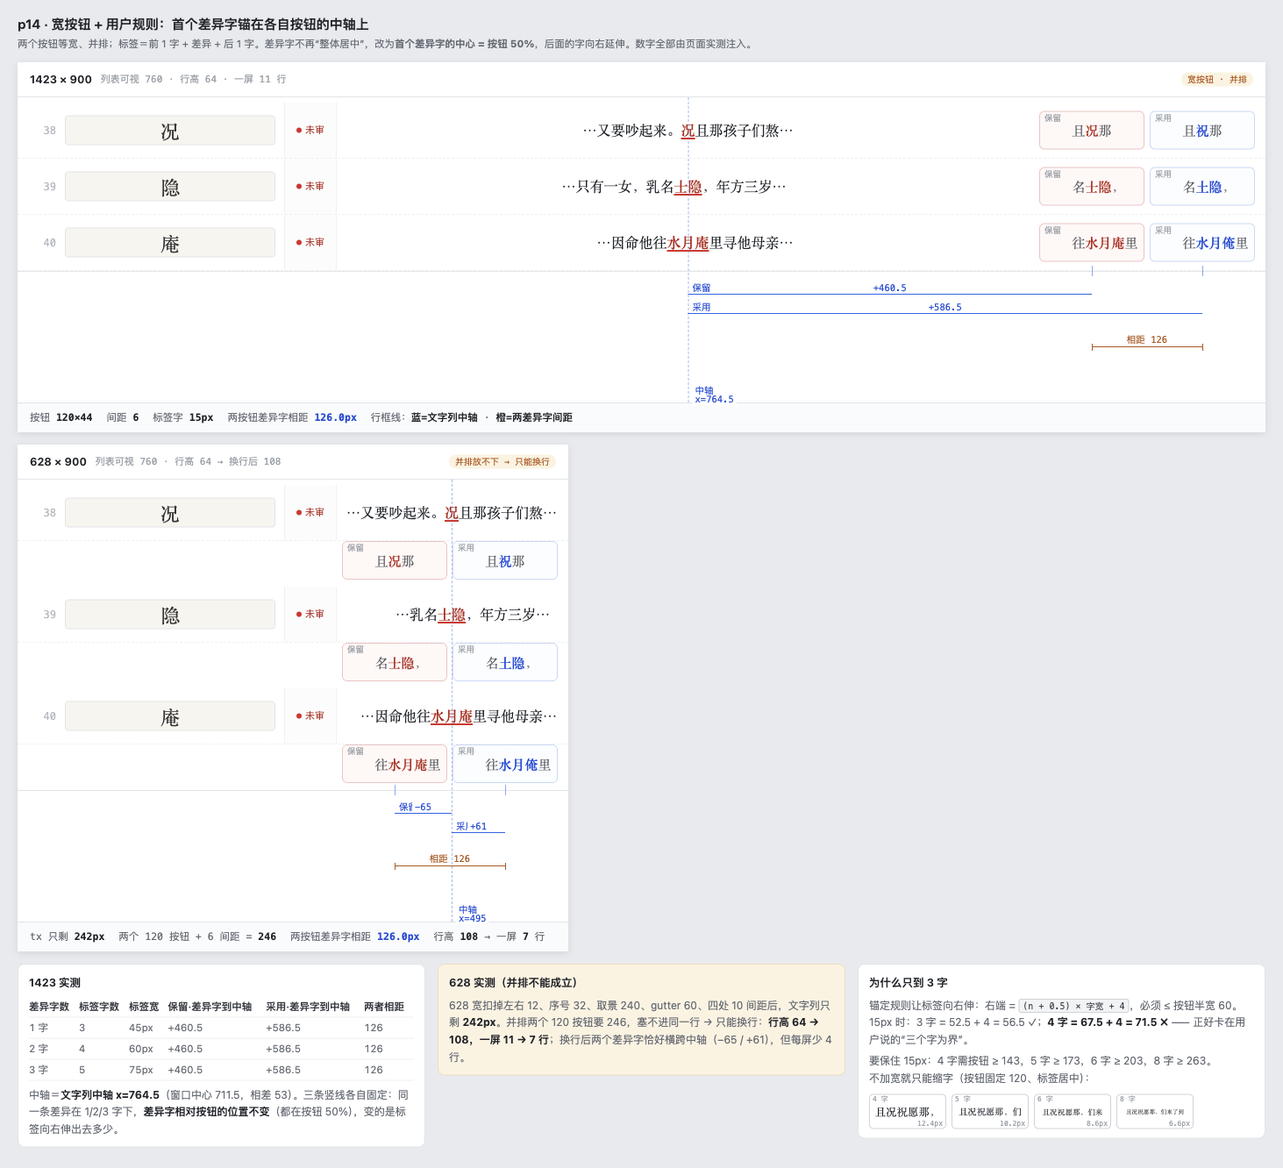
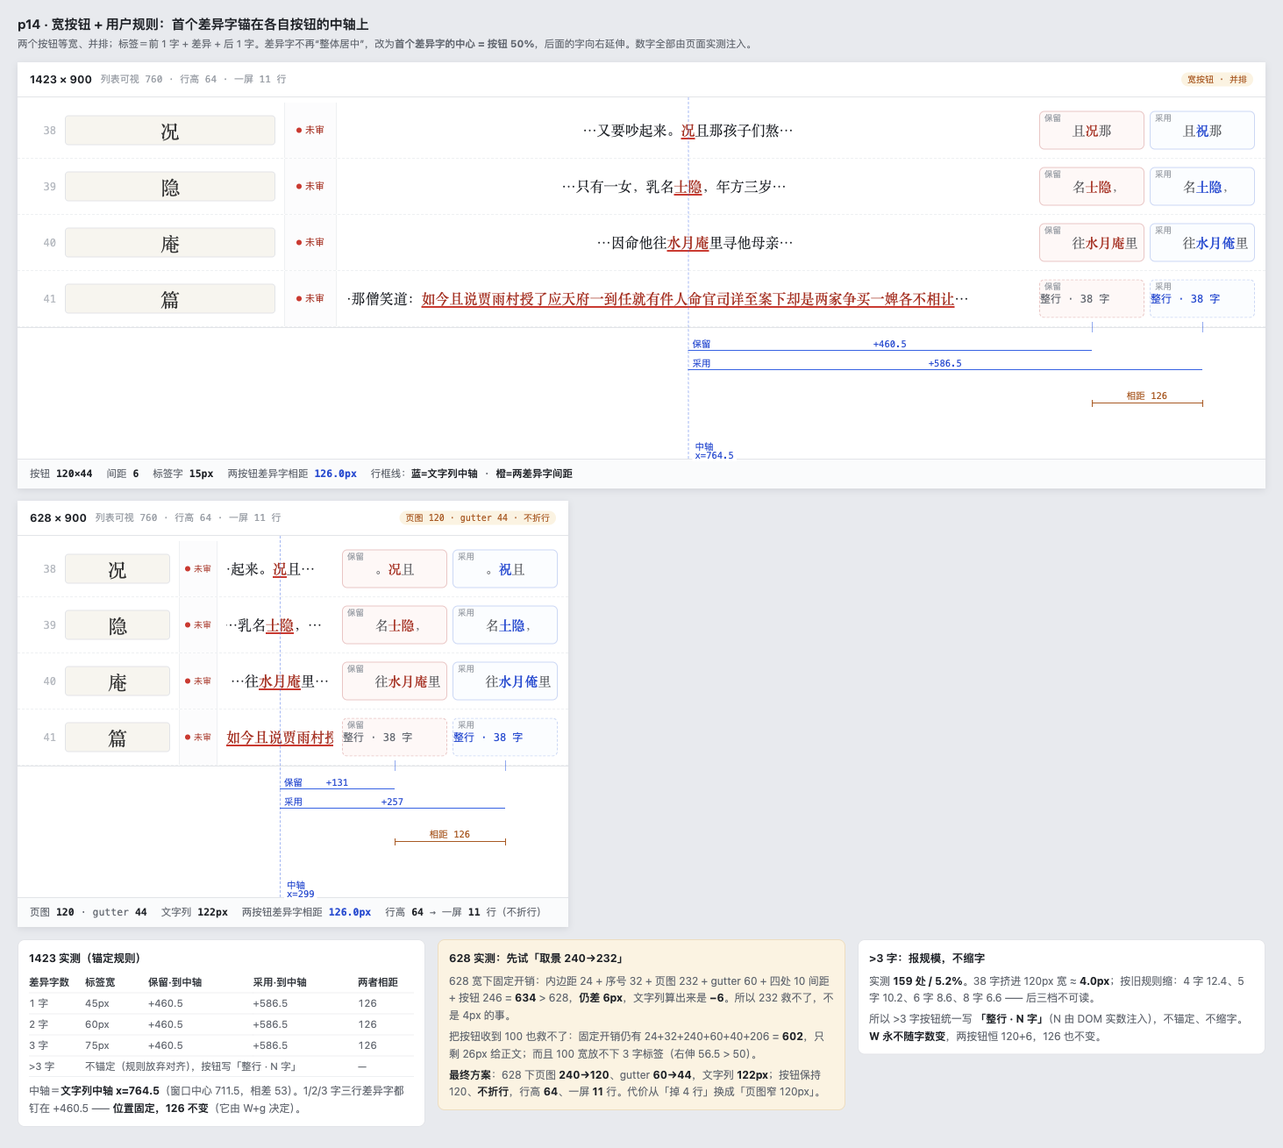
docs(ux): p14 定稿——W 固定 120、>3 字报「整行·N 字」、628 缩页图不折行
- p14 并排宽按钮定稿：1/2/3 字差异字钉在 +460.5 / +586.5，相距 126 不变
- >3 字（159 处 / 5.2%）按钮写「整行 · N 字」，不锚定不缩字；N 由 DOM 实数注入
- 628：取景 240→232 仍差 6px，按钮收 100 只剩 26px 正文且放不下 3 字标签
  → 最终页图 240→120、gutter 60→44，文字列 122、行高 64、一屏 11 行、不折行
- p15 芯片版标「未采用」，理由：会吃掉正文红字标记
- 数字全部由页面实测注入

diff --git a/docs/ux/review-cat-buttons-axis-p14.html b/docs/ux/review-cat-buttons-axis-p14.html
@@ -38,6 +38,11 @@ h1{font-size:15px;margin:0 0 3px;font-weight:650}
   transform:translateY(-50%)}
 .b .pre,.b .post{color:var(--text);opacity:.75}
 .b .dd{font-weight:700;color:var(--bad)}
+.b .bl{font:12px/1 var(--mono);color:var(--muted);white-space:nowrap}
+.b.adopt .bl{color:var(--blueText)}
+.b.big{border-style:dashed}
+.frame.n628 .shot{width:120px}
+.frame.n628 .gut{width:44px;font-size:10px}
 .b.adopt .dd{color:var(--blueText)}
 .b .lab{position:absolute;top:2px;left:5px;font:9.5px/1 var(--mono);color:var(--faint)}
 /* 标尺 */
@@ -107,71 +112,72 @@ h1{font-size:15px;margin:0 0 3px;font-weight:650}
           </div>
         </div>
       </div>
+        <div class="row">
+          <span class="no">41</span><div class="shot">篇</div><div class="gut"><i class="dot"></i>未审</div>
+          <div class="tx"><span class="padL"><span class="c">…那僧笑道：</span></span><b class="d">如今且说贾雨村授了应天府一到任就有件人命官司详至案下却是两家争买一婢各不相让</b><span class="padR"><span class="c">…</span></span></div>
+          <div class="btns">
+            <button class="b keep big" data-n="38"><span class="lab">保留</span><span class="in"><b class="bl">整行 · 38 字</b></span></button>
+            <button class="b adopt big" data-n="38"><span class="lab">采用</span><span class="in"><b class="bl">整行 · 38 字</b></span></button>
+          </div>
+        </div>
       <div class="ruler"></div>
     </div>
     <div class="ft"><span>按钮 <b>120×44</b></span><span>间距 <b>6</b></span><span>标签字 <b>15px</b></span><span>两按钮差异字相距 <b class="k" id="fa-dist">—</b></span><span>行框线：<b>蓝=文字列中轴</b> · <b>橙=两差异字间距</b></span></div>
   </div>
 
   <!-- ============ 628 ============ -->
-  <div class="frame" id="FB" style="width:628px">
-    <div class="hd">628 × 900<span class="dim">列表可视 760 · 行高 64 → 换行后 108</span><span class="spacer"></span><span class="tagp">并排放不下 → 只能换行</span></div>
+  <div class="frame n628" id="FB" style="width:628px">
+    <div class="hd">628 × 900<span class="dim">列表可视 760 · 行高 64 · 一屏 11 行</span><span class="spacer"></span><span class="tagp">页图 120 · gutter 44 · 不折行</span></div>
     <div class="bd">
       <div class="rows">
-        <div class="row wrap">
+        <div class="row">
           <span class="no">38</span><div class="shot">况</div><div class="gut"><i class="dot"></i>未审</div>
-          <div class="tx"><span class="padL"><span class="c">…又要吵起来。</span></span><b class="d">况</b><span class="padR"><span class="c">且那孩子们熬…</span></span></div>
+          <div class="tx"><span class="padL"><span class="c">…起来。</span></span><b class="d">况</b><span class="padR"><span class="c">且…</span></span></div>
+          <div class="btns"><button class="b keep" data-n="1"><span class="lab">保留</span><span class="in"><span class="pre">。</span><b class="dd" data-slot="keep">况</b><span class="post">且</span></span></button><button class="b adopt" data-n="1"><span class="lab">采用</span><span class="in"><span class="pre">。</span><b class="dd" data-slot="adopt">祝</b><span class="post">且</span></span></button></div>
         </div>
-        <div class="btnsline">
-          <button class="b keep" data-n="1"><span class="lab">保留</span><span class="in"><span class="pre">且</span><b class="dd" data-slot="keep">况</b><span class="post">那</span></span></button>
-          <button class="b adopt" data-n="1"><span class="lab">采用</span><span class="in"><span class="pre">且</span><b class="dd" data-slot="adopt">祝</b><span class="post">那</span></span></button>
-        </div>
-        <div class="row wrap">
+        <div class="row">
           <span class="no">39</span><div class="shot">隐</div><div class="gut"><i class="dot"></i>未审</div>
-          <div class="tx"><span class="padL"><span class="c">…乳名</span></span><b class="d">士隐</b><span class="padR"><span class="c">，年方三岁…</span></span></div>
+          <div class="tx"><span class="padL"><span class="c">…乳名</span></span><b class="d">士隐</b><span class="padR"><span class="c">，…</span></span></div>
+          <div class="btns"><button class="b keep" data-n="2"><span class="lab">保留</span><span class="in"><span class="pre">名</span><b class="dd" data-slot="keep">士</b><b class="dd">隐</b><span class="post">，</span></span></button><button class="b adopt" data-n="2"><span class="lab">采用</span><span class="in"><span class="pre">名</span><b class="dd" data-slot="adopt">土</b><b class="dd">隐</b><span class="post">，</span></span></button></div>
         </div>
-        <div class="btnsline">
-          <button class="b keep" data-n="2"><span class="lab">保留</span><span class="in"><span class="pre">名</span><b class="dd" data-slot="keep">士</b><b class="dd">隐</b><span class="post">，</span></span></button>
-          <button class="b adopt" data-n="2"><span class="lab">采用</span><span class="in"><span class="pre">名</span><b class="dd" data-slot="adopt">土</b><b class="dd">隐</b><span class="post">，</span></span></button>
-        </div>
-        <div class="row wrap">
+        <div class="row">
           <span class="no">40</span><div class="shot">庵</div><div class="gut"><i class="dot"></i>未审</div>
-          <div class="tx"><span class="padL"><span class="c">…因命他往</span></span><b class="d">水月庵</b><span class="padR"><span class="c">里寻他母亲…</span></span></div>
+          <div class="tx"><span class="padL"><span class="c">…往</span></span><b class="d">水月庵</b><span class="padR"><span class="c">里…</span></span></div>
+          <div class="btns"><button class="b keep" data-n="3"><span class="lab">保留</span><span class="in"><span class="pre">往</span><b class="dd" data-slot="keep">水</b><b class="dd">月</b><b class="dd">庵</b><span class="post">里</span></span></button><button class="b adopt" data-n="3"><span class="lab">采用</span><span class="in"><span class="pre">往</span><b class="dd" data-slot="adopt">水</b><b class="dd">月</b><b class="dd">俺</b><span class="post">里</span></span></button></div>
         </div>
-        <div class="btnsline">
-          <button class="b keep" data-n="3"><span class="lab">保留</span><span class="in"><span class="pre">往</span><b class="dd" data-slot="keep">水</b><b class="dd">月</b><b class="dd">庵</b><span class="post">里</span></span></button>
-          <button class="b adopt" data-n="3"><span class="lab">采用</span><span class="in"><span class="pre">往</span><b class="dd" data-slot="adopt">水</b><b class="dd">月</b><b class="dd">俺</b><span class="post">里</span></span></button>
+        <div class="row">
+          <span class="no">41</span><div class="shot">篇</div><div class="gut"><i class="dot"></i>未审</div>
+          <div class="tx"><span class="padL"><span class="c">…笑道：</span></span><b class="d">如今且说贾雨村授了应天府一到任就有件人命官司详至案下却是两家争买一婢各不相让</b><span class="padR"><span class="c">…</span></span></div>
+          <div class="btns"><button class="b keep big" data-n="38"><span class="lab">保留</span><span class="in"><b class="bl">整行 · 38 字</b></span></button><button class="b adopt big" data-n="38"><span class="lab">采用</span><span class="in"><b class="bl">整行 · 38 字</b></span></button></div>
         </div>
       </div>
       <div class="ruler"></div>
     </div>
-    <div class="ft"><span>tx 只剩 <b id="fb-txw">—</b></span><span>两个 120 按钮 + 6 间距 = <b>246</b></span><span>两按钮差异字相距 <b class="k" id="fb-dist">—</b></span><span>行高 <b>108</b> → 一屏 <b>7</b> 行</span></div>
+    <div class="ft"><span>页图 <b>120</b> · gutter <b>44</b></span><span>文字列 <b id="fb-txw">—</b></span><span>两按钮差异字相距 <b class="k" id="fb-dist">—</b></span><span>行高 <b>64</b> → 一屏 <b>11</b> 行（不折行）</span></div>
   </div>
 
   <div class="notes">
     <div class="card">
-      <h3>1423 实测</h3>
+      <h3>1423 实测（锚定规则）</h3>
       <table>
-        <tr><th>差异字数</th><th>标签字数</th><th>标签宽</th><th>保留·差异字到中轴</th><th>采用·差异字到中轴</th><th>两者相距</th></tr>
-        <tr><td>1 字</td><td>3</td><td id="t-1-lw">—</td><td id="t-1-k">—</td><td id="t-1-a">—</td><td id="t-1-d">—</td></tr>
-        <tr><td>2 字</td><td>4</td><td id="t-2-lw">—</td><td id="t-2-k">—</td><td id="t-2-a">—</td><td id="t-2-d">—</td></tr>
-        <tr><td>3 字</td><td>5</td><td id="t-3-lw">—</td><td id="t-3-k">—</td><td id="t-3-a">—</td><td id="t-3-d">—</td></tr>
+        <tr><th>差异字数</th><th>标签宽</th><th>保留·到中轴</th><th>采用·到中轴</th><th>两者相距</th></tr>
+        <tr><td>1 字</td><td id="t-1-lw">—</td><td id="t-1-k">—</td><td id="t-1-a">—</td><td id="t-1-d">—</td></tr>
+        <tr><td>2 字</td><td id="t-2-lw">—</td><td id="t-2-k">—</td><td id="t-2-a">—</td><td id="t-2-d">—</td></tr>
+        <tr><td>3 字</td><td id="t-3-lw">—</td><td id="t-3-k">—</td><td id="t-3-a">—</td><td id="t-3-d">—</td></tr>
+        <tr><td>&gt;3 字</td><td colspan="3">不锚定（规则放弃对齐），按钮写「整行 · N 字」</td><td>—</td></tr>
       </table>
-      <p style="margin:6px 0 0">中轴＝<b>文字列中轴 x=764.5</b>（窗口中心 711.5，相差 53）。三条竖线各自固定：同一条差异在 1/2/3 字下，<b>差异字相对按钮的位置不变</b>（都在按钮 50%），变的是标签向右伸出去多少。</p>
+      <p style="margin:6px 0 0">中轴＝<b>文字列中轴 x=764.5</b>（窗口中心 711.5，相差 53）。1/2/3 字三行差异字都钉在 +460.5 —— <b>位置固定，126 不变</b>（它由 W+g 决定）。</p>
     </div>
     <div class="card warnbox">
-      <h3>628 实测（并排不能成立）</h3>
-      <p style="margin:0">628 宽扣掉左右 12、序号 32、取景 240、gutter 60、四处 10 间距后，文字列只剩 <b id="t-fb-tx">—</b>。并排两个 120 按钮要 246，塞不进同一行 → 只能换行：<b>行高 64 → 108，一屏 11 → 7 行</b>；换行后两个差异字恰好横跨中轴（−65 / +61），但每屏少 4 行。</p>
+      <h3>628 实测：先试「取景 240→232」</h3>
+      <p style="margin:0 0 4px">628 宽下固定开销：内边距 24 + 序号 32 + 页图 232 + gutter 60 + 四处 10 间距 + 按钮 246 = <b>634</b> &gt; 628，<b>仍差 6px</b>，文字列算出来是 <b>−6</b>。所以 232 救不了，不是 4px 的事。</p>
+      <p style="margin:0 0 4px">把按钮收到 100 也救不了：固定开销仍有 24+32+240+60+40+206 = <b>602</b>，只剩 26px 给正文；而且 100 宽放不下 3 字标签（右伸 56.5 &gt; 50）。</p>
+      <p style="margin:0"><b>最终方案</b>：628 下页图 <b>240→120</b>、gutter <b>60→44</b>，文字列 <b id="t-fb-tx2">—</b>；按钮保持 120、<b>不折行</b>，行高 <b>64</b>、一屏 <b>11</b> 行。代价从「掉 4 行」换成「页图窄 120px」。</p>
     </div>
     <div class="card">
-      <h3>为什么只到 3 字</h3>
-      <p style="margin:0 0 4px">锚定规则让标签向右伸：右端 = <span class="k2">(n + 0.5) × 字宽 + 4</span>，必须 ≤ 按钮半宽 60。<br>15px 时：3 字 = 52.5 + 4 = 56.5 ✓；<b>4 字 = 67.5 + 4 = 71.5 ✗</b> —— 正好卡在用户说的“三个字为界”。</p>
-      <p style="margin:0">要保住 15px：4 字需按钮 ≥ 143，5 字 ≥ 173，6 字 ≥ 203，8 字 ≥ 263。<br>不加宽就只能缩字（按钮固定 120、标签居中）：</p>
-      <div class="mini">
-        <div class="mb"><b>4 字</b><span style="font-size:12.4px">且况祝愿那，</span><i>12.4px</i></div>
-        <div class="mb"><b>5 字</b><span style="font-size:10.2px">且况祝愿那，们</span><i>10.2px</i></div>
-        <div class="mb"><b>6 字</b><span style="font-size:8.6px">且况祝愿那，们来</span><i>8.6px</i></div>
-        <div class="mb"><b>8 字</b><span style="font-size:6.6px">且况祝愿那，们来了到</span><i>6.6px</i></div>
-      </div>
+      <h3>&gt;3 字：报规模，不缩字</h3>
+      <p style="margin:0 0 4px">实测 <b>159 处 / 5.2%</b>。38 字挤进 120px 宽 ≈ <b>4.0px</b>；按旧规则缩：4 字 12.4、5 字 10.2、6 字 8.6、8 字 6.6 —— 后三档不可读。</p>
+      <p style="margin:0">所以 &gt;3 字按钮统一写 <b>「整行 · N 字」</b>（N 由 DOM 实数注入），不锚定、不缩字。<b>W 永不随字数变</b>，两按钮恒 120+6，126 也不变。</p>
     </div>
   </div>
 </div>
@@ -188,6 +194,7 @@ function measure(f){
   // 先给每个按钮定位：首个差异字中心 = 按钮中心
   f.querySelectorAll('.b').forEach(b=>{
     const dd=b.querySelector('.dd'), inner=b.querySelector('.in');
+    if(!dd) return;
     const br=b.getBoundingClientRect(), dr=dd.getBoundingClientRect();
     inner.style.transform='translate('+((br.left+br.width/2)-(dr.left+dr.width/2))+'px,-50%)';
   });
@@ -229,12 +236,14 @@ function measure(f){
   return {axisX,kx,ax,dist:x1-x0,txw:tr.width};
 }
 
+const bigLen=(document.querySelector('#FA .row .d.big')||document.querySelectorAll('#FA .row .d')[3]||{textContent:''}).textContent.length;
+document.querySelectorAll('.b .bl').forEach(el=>{el.textContent='整行 · '+bigLen+' 字';});
 const A=document.getElementById('FA'),B=document.getElementById('FB');
 const mA=measure(A),mB=measure(B);
 document.getElementById('fa-dist').textContent=mA.dist.toFixed(1)+'px';
 document.getElementById('fb-dist').textContent=mB.dist.toFixed(1)+'px';
 document.getElementById('fb-txw').textContent=PX(mB.txw)+'px';
-document.getElementById('t-fb-tx').textContent=PX(mB.txw)+'px';
+document.getElementById('t-fb-tx2').textContent=PX(mB.txw)+'px';
 
 // 表格：逐行按钮（第一帧）
 [1,2,3].forEach(n=>{

diff --git a/docs/ux/review-cat-buttons-axis-p15.html b/docs/ux/review-cat-buttons-axis-p15.html
@@ -8,6 +8,7 @@
 body{font:13px/1.5 -apple-system,BlinkMacSystemFont,"PingFang SC","Microsoft YaHei",sans-serif;color:var(--text);background:#e8eaee}
 .page{width:1463px;padding:16px 20px 24px}
 h1{font-size:15px;margin:0 0 3px;font-weight:650}
+.dead{border:1px solid #f0c4c4;background:#fdf2f1;color:#b42318;border-radius:6px;padding:7px 11px;font-size:12.5px;font-weight:600;margin-bottom:10px}
 .sub{font-size:11.5px;color:var(--muted);margin-bottom:12px}
 .frame{position:relative;background:#fff;box-shadow:0 2px 8px rgba(16,24,40,.10);margin-bottom:14px}
 .hd{height:40px;display:flex;align-items:center;gap:10px;padding:0 14px;border-bottom:1px solid var(--line);font-size:12.5px;font-weight:650}
@@ -58,6 +59,7 @@ h1{font-size:15px;margin:0 0 3px;font-weight:650}
 .k2{font:10px/1 var(--mono);background:#f2f3f5;border:1px solid var(--line3);border-radius:3px;padding:1px 4px;color:#33383f}
 </style></head><body>
 <div class="page">
+  <div class="dead">未采用 · 用户选 p14（并排宽按钮）——芯片会吃掉正文里的红字标记</div>
   <h1>p15 · 窄芯片：只装差异字，两个芯片夹住文字列中轴</h1>
   <div class="sub">去掉「保留 / 采用」长文案，芯片＝<b>动作符号 + 差异字</b>；两个芯片的内侧边贴住 2px 中缝，缝正落在文字列中轴上。差异字距从 p14 的 126px 压到 33px。数字由页面实测注入。</div>
 

diff --git a/docs/ux/review-cat-list-v3.md b/docs/ux/review-cat-list-v3.md
@@ -159,60 +159,48 @@
 
 **验收口径（帧 1）**：文字列差异字各自居中、缺字补 `……`；占位点不可选中、不可编辑、不进导出；按钮差异字相对各自按钮居中且两按钮同宽。**不按「按钮与文字列同一条竖线」验**——那是另一件事，并排做不到（差 126px / 483px）。
 
-## 10. 按钮标签「首个差异字锚中轴」（2026-11-06，用户新规则）
+## 10. 按钮标签「首个差异字锚中轴」— p14 定稿（2026-11-06）
 
-图：`review-cat-buttons-axis-p14.png` / `review-cat-buttons-axis-p15.png`，源 `review-cat-buttons-axis-p14.html` / `-p15.html`。两图数字都由页面实测注入（`getBoundingClientRect`），不是手写。
+图：`review-cat-buttons-axis-p14.png`（定稿）、`review-cat-buttons-axis-p15.png`（**未采用**，图上有横幅）。源：同名 `.html`。数字由页面实测注入（`getBoundingClientRect`），不手写。
 
-### 用户规则原文
+**决策**：用户选 **p14 并排宽按钮**。**p15 窄芯片未采用**，一行理由：**芯片插在差异字原位，会吃掉正文里的红字标记**（用户要保留“正文哪儿不一样”的红字+下划线），而且 628 下芯片要占文字列 40–68%。
 
-> 差异内容是两个字（XY），按钮上显示时让差异内容从第二个字开始，保持差异内容的第一个字在按钮的中轴上；三个字（XYZ）就三个字全显示；超过三个字就缩小字体，这时候就不关中轴对齐了。
+### 10.1 规则
 
-落法：标签＝前 1 字 + 差异 + 后 1 字；**首个差异字的中心 = 按钮 50%**，标签向右延伸。1 字时前后各一字刚好对称（与原“整体居中”同解），2/3 字时向右长。
+| 项 | 值 |
+|---|---|
+| 两个按钮 | 并排、等宽 **W=120**、间距 **g=6**、高 44；角标写 `保留` / `采用` |
+| 标签 | 前 1 字 + 差异 + 后 1 字；**首个差异字的中心 = 按钮 50%**，后面的字向右延伸 |
+| 1 / 2 / 3 字 | 差异字分别钉在 **+460.5 / +586.5**，相距 **126px** —— 三个位置不随字数变 |
+| W | **固定 120，永不随字数变**（这条让“按钮越长越宽”的问题消失） |
+| >3 字 | 按钮写 **「整行 · N 字」**（N 由 DOM 实数注入），**不锚定、不缩字号**；实测 **159 处 / 5.2%** |
+| 126px | 不改。它由 `W+g` 决定；用户接受“两条线”，换来“位置固定” |
 
-### p14 宽按钮（W 120、g 6、字 15px）
+为什么 >3 字不缩：38 字挤进 120 宽 ≈ **4.0px**；按旧规则缩，4/5/6/8 字分别是 12.4 / 10.2 / 8.6 / 6.6px，后三档不可读。所以宁可只报规模。
 
-W 固定 120（不是 p12 的“随 n 增长”）——否则“>3 字要缩字号”永远触发不了，因为 W 会长得比标签快。这是本稿相对 p12 §9 的一处改动，需要用户确认。
+### 10.2 实测数字
 
-| 窗口 | 差异字数 | 标签宽 | 保留·差异字→中轴 | 采用·差异字→中轴 | 两者相距 | 行高 | 一屏 |
+| 窗口 | 差异字数 | 标签宽 | 保留·到中轴 | 采用·到中轴 | 相距 | 行高 | 一屏 |
 |---|---|---|---|---|---|---|---|
 | 1423 | 1 | 45 | +460.5 | +586.5 | **126** | 64 | 11 |
 | 1423 | 2 | 60 | +460.5 | +586.5 | **126** | 64 | 11 |
 | 1423 | 3 | 75 | +460.5 | +586.5 | **126** | 64 | 11 |
-| 628 | 1/2/3 | 45/60/75 | −65 | +61 | **126** | 108（换行） | 7 |
+| 1423 | >3 | 「整行 · N 字」 | 不锚定 | 不锚定 | — | 64 | 11 |
+| 628 | 1/2/3 | 45/60/75 | +131 | +257 | **126** | 64 | 11 |
 
-- 中轴＝**文字列中轴**（1423 时 x=764.5；窗口中心 711.5，相差 53）。p10/p11 的“中轴”一直是这条。
-- 规则**不缩** 126px：两按钮中心恒差 W+g。它买到的是**位置稳定**——1/2/3 字下差异字都钉在同一处（+460.5），不再随标签长度左右漂 ±15/±30px。
-- 628 宽并排不成立：扣左右 12、序号 32、取景 240、gutter 60、四处 10 间距后文字列只剩 **242**，两个按钮要 246。只能换行 → 行高 64→108、一屏 11→7；换行后两按钮恰好横跨中轴（−65/+61），但每屏少 4 行。
+- 中轴＝**文字列中轴**。1423 时 x=764.5（窗口中心 711.5，相差 53）；628 时 x=299。
+- 628 上差异字离中轴更远（+131/+257），因为文字列只有 122，按钮必须排在它右边；两按钮之间的距离仍是 126。
 
-### p15 窄芯片（只装差异字）
+### 10.3 628 为什么不折行
 
-芯片＝动作符号 + 差异字，高 28；左芯 `= 况`（保留），右芯 `祝 ✓`（采用）；两芯内侧边贴着 **2px 中缝**，缝落在文字列中轴。因为右侧按钮消失，文字列从 765 涨到 **1033（+268）**。
+先按提议试「取景 240→232」：固定开销 = 内边距 24 + 序号 32 + 页图 232 + gutter 60 + 四处 10 间距 + 按钮 246 = **634 > 628**，文字列算出来是 **−6px**。**差 6px，不是 4px，232 救不了。**
 
-| 差异字数 | 单芯宽 | 整组宽 | 左差异字中心 | 右差异字中心 | 最近两字相距 |
-|---|---|---|---|---|---|
-| 1 | 39.6 | 81.3 | −16.5 | +16.5 | **33** |
-| 2 | 56.6 | 115.3 | −16.5 | +16.5 | **33** |
-| 3 | 73.6 | 149.3 | −16.5 | +16.5 | **33** |
+再试「按钮收到 100」：固定开销仍有 24+32+240+60+40+206 = **602**，只剩 **26px** 给正文；而且 100 宽放不下 3 字标签（右伸 56.5 > 50）。**收按钮也救不了。**
 
-行高 64 不变（芯片 28 高，行内垂直居中）→ **一屏 11 行**；1423 与 628 **同一组数**（芯片几何不随窗宽变），628 变的只是两侧上下文。
+**最终方案**：628 下 **页图 240→120**、**gutter 60→44** → 文字列 **122**；按钮保持 120、**不折行**，行高 **64**、一屏 **11 行**。代价从“掉 4 行”换成“页图窄 120px（正文每侧约 3.8 字）”。
 
-**代价**：芯片插在差异字原位，占「组宽 + 16」：1 字 96、2 字 134、3 字 164。1423 下文字列 1033，占 9–16%，两侧还有 40–52 字；**628 下文字列 242，占 40–68%**，3 字差异只剩 3–4 字上下文。这是 p15 在窄窗上的真实代价，绕不开。
+**待用户确认**：628 上页图只有 120 宽（1423 是 240），这是为了让按钮并排而付的唯一一笔；如果页图不能小于 160，那就只能回到折行（行高 108 / 7 行）。
 
-### 问题 1：p15 的芯片能不能到 32px（1 字时）
+### 10.4 p15 未采用（留档）
 
-**带动作符号：做不到**，实测 **39.6px**（7 内边距×2 + 符号 11 + 间距 2 + 字 15 + 边框 2）。  
-不带符号、内边距 8：**33px**；内边距压到 7.5 才正好 **32px**——但左右两芯就只剩颜色可区分，违反“颜色之外要有文字/符号”。  
-结论：**取 ≈40px（39.6）**，不追 32。若一定要 32，就得接受两颗芯只有颜色差异。
-
-### 问题 2：3 字以上缩到几号字
-
-按钮固定 120、标签居中（放弃锚定）时，`f = (60 − 4) / (n + 0.5)`：
-
-| 差异字数 | 标签字数 | 保 15px 需要按钮宽 | 120 宽只能缩到 | 还能看清 |
-|---|---|---|---|---|
-| 4 | 6 | ≥ 143 | **12.4px** | 勉强（比正文 16px 小一号） |
-| 5 | 7 | ≥ 173 | **10.2px** | 不可 |
-| 6 | 8 | ≥ 203 | **8.6px** | 不可 |
-| 8 | 10 | ≥ 263 | **6.6px** | 不可 |
-
-图 p14 右下角有 4/5/6/8 四档实样（84×44 按计算字号渲染）。临界点就是 3 字：3 字右伸 52.5+4=56.5 ≤ 60 ✓，4 字 67.5+4=71.5 ✗。
+芯片 = 动作符号 + 差异字，两芯夹 2px 中缝，最近两字 **33px**（p14 的 1/4），行高不变、628 与 1423 同数。**未采用**：它把差异字从正文里替换掉了，红字下划线跟着消失；要保持红标就得把芯片挪到正文下一行（行高 +34）。
